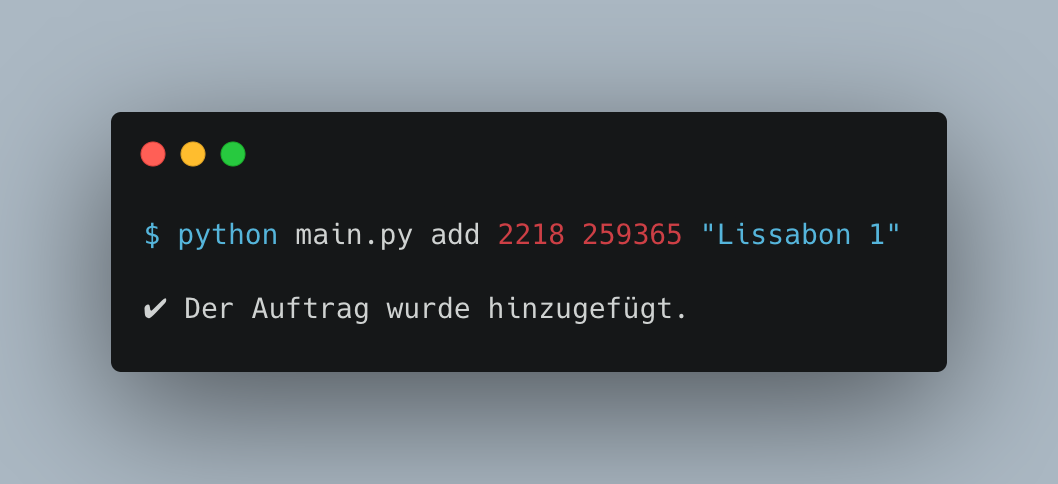
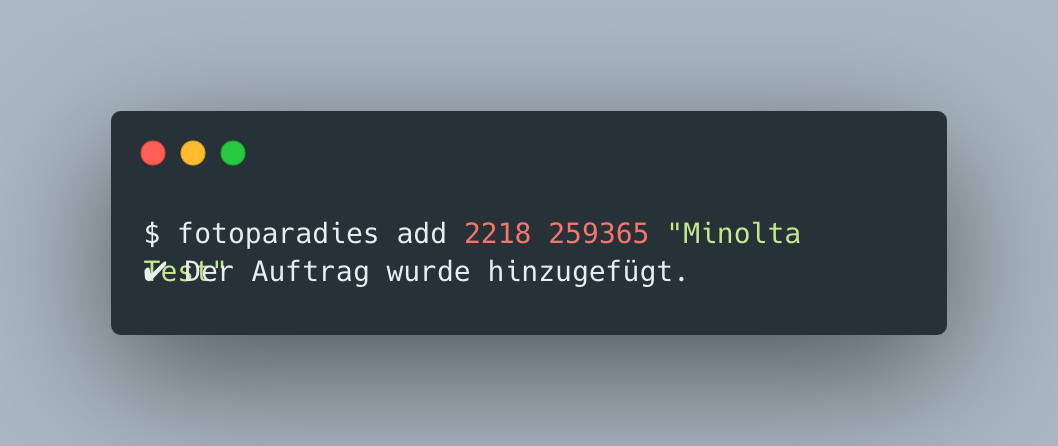
added new screenshots + fix readme

diff --git a/README.md b/README.md
@@ -15,26 +15,26 @@ Beispiele findest du im folgenden:
 ## Funktionsweise
 1. **Neue Aufträge hinzufügen**
    
-    Ein neuer Auftrag wird hinzugefügt, indem das Tool mit `add [Filial-Nummer] [Auftragsnummer] (Name)` aufgerufen wird.
+    Ein neuer Auftrag wird hinzugefügt, indem das Tool mit `fotoparadies add [Filial-Nummer] [Auftragsnummer] (Name)` aufgerufen wird.
     Der Parameter Name ist optional, er hilft aber die Aufträge voneinander zu unterscheiden.
 
     ![](https://github.com/hija/fotoparadies/raw/main/doc/img/00_add.png)
 
 2. **Status der Aufträge anzeigen**
 
-    Den Status der Aufträge, lässt sich mit `status` anzeigen:
+    Den Status der Aufträge, lässt sich mit `fotoparadies status` anzeigen:
 
     ![](https://github.com/hija/fotoparadies/raw/main/doc/img/01_status.png)
 
 3. **Gelieferte Aufträge löschen**
    
-   Gelieferte Aufträge (Status "Delivered") lassen sich automatisch mit dem `cleanup` Befehl löschen:
+   Gelieferte Aufträge (Status "Delivered") lassen sich automatisch mit dem `fotoparadies cleanup` Befehl löschen:
 
    ![](https://github.com/hija/fotoparadies/raw/main/doc/img/02_cleanup.png)
 
 4. **Auftrag manuell löschen**
 
-    Ein Auftrag lässt sich mit dem `remove [Name]` Befehl manuell löschen. Name ist entweder der in Schritt 1 gesetzter Name oder alternativ die Auftragsnummer.
+    Ein Auftrag lässt sich mit dem `fotoparadies remove [Name]` Befehl manuell löschen. Name ist entweder der in Schritt 1 gesetzter Name oder alternativ die Auftragsnummer.
 
     ![](https://github.com/hija/fotoparadies/raw/main/doc/img/03_remove.png)
 
